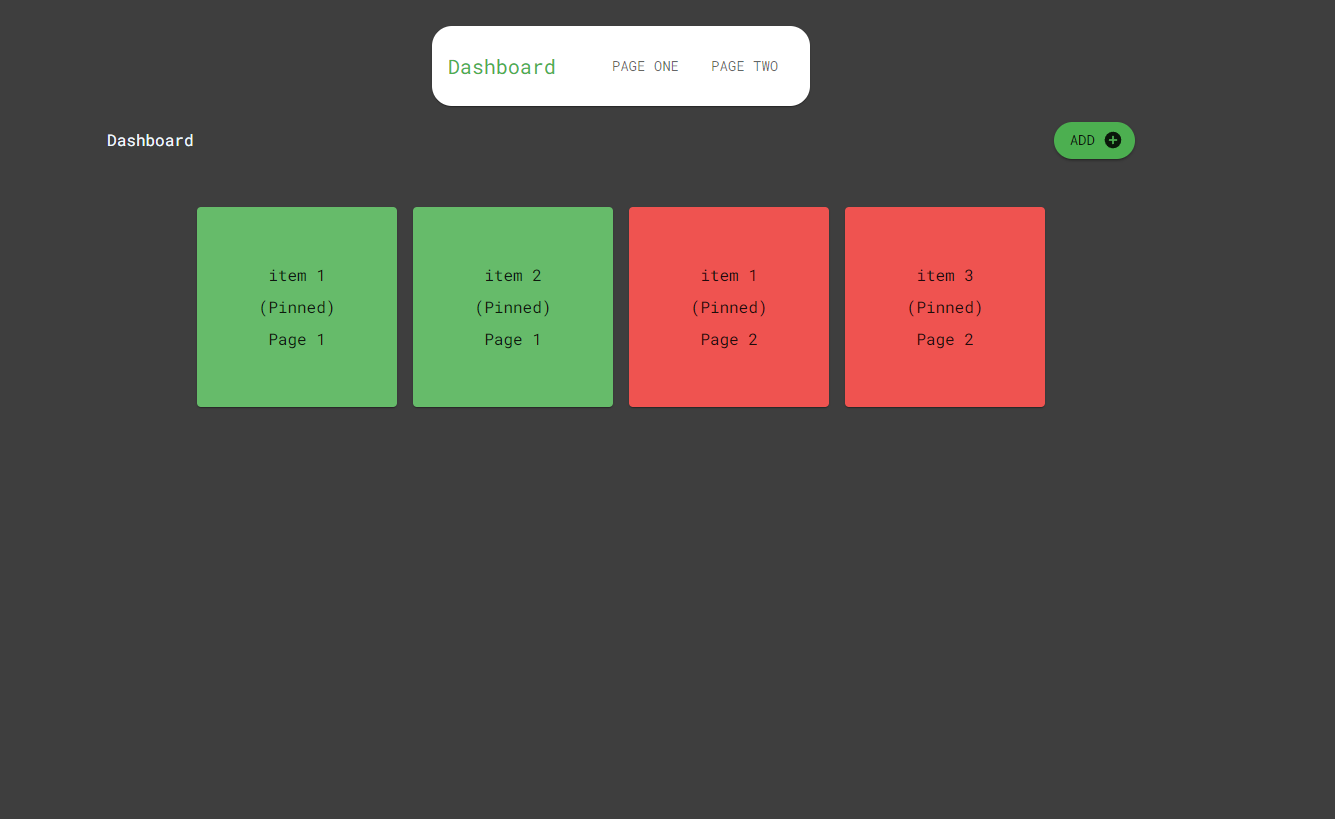
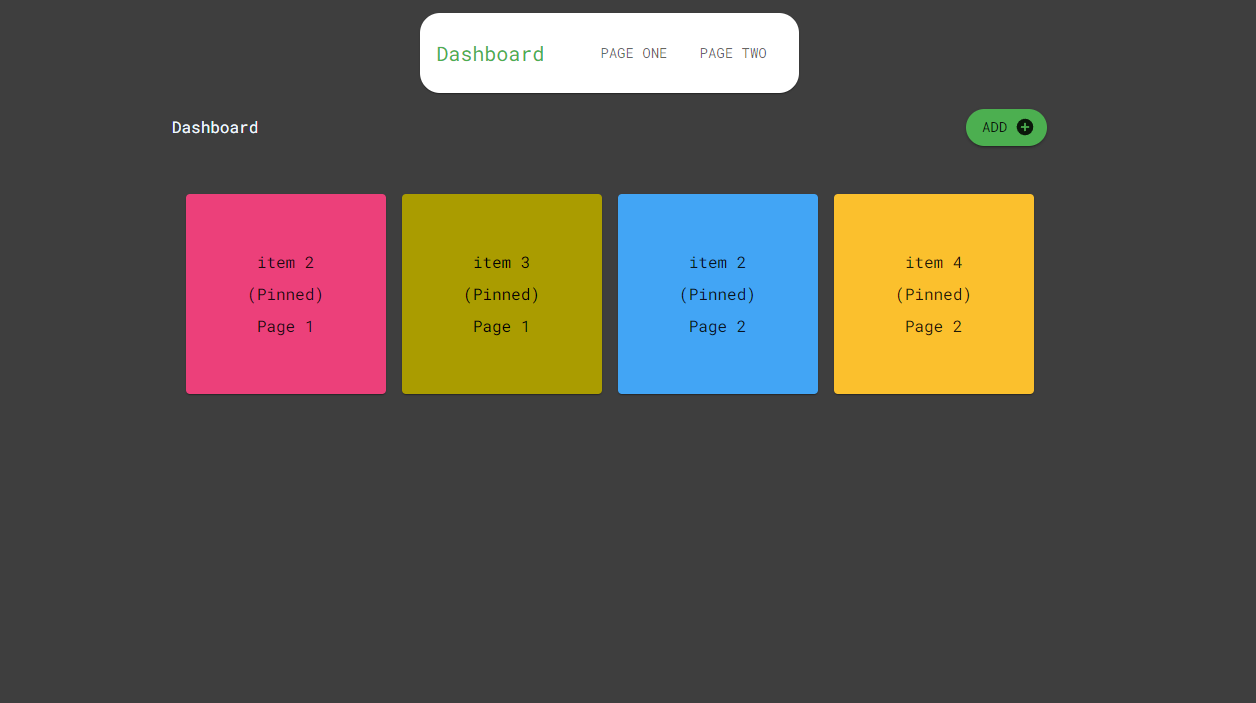
added many colors to cards

diff --git a/src/redux/slices/itemsSlice.tsx b/src/redux/slices/itemsSlice.tsx
@@ -1,7 +1,7 @@
 import {Item} from "../../types/types";
 import {createSlice, PayloadAction} from "@reduxjs/toolkit";
 import {RootState} from "../store";
-import {green, red} from "@mui/material/colors";
+import {blue, brown, green, pink, red, yellow} from "@mui/material/colors";
 
 const pageOneItems: Item[] = [
     {
@@ -18,7 +18,7 @@ const pageOneItems: Item[] = [
         page: 1,
         isDashboard: false,
         isPinned: false,
-        color: green[400]
+        color: pink[400]
     },
     {
         index: 3,
@@ -26,7 +26,7 @@ const pageOneItems: Item[] = [
         page: 1,
         isDashboard: false,
         isPinned: false,
-        color: green[400]
+        color: yellow[400]
     },
     {
         index: 4,
@@ -34,7 +34,7 @@ const pageOneItems: Item[] = [
         page: 1,
         isDashboard: false,
         isPinned: false,
-        color: green[400]
+        color: brown[400]
     }
 ]
 
@@ -54,7 +54,7 @@ const pageTwoItems: Item[] = [
         page: 2,
         isDashboard: false,
         isPinned: false,
-        color: red[400]
+        color: blue[400]
     },
     {
         index: 7,
@@ -62,7 +62,7 @@ const pageTwoItems: Item[] = [
         page: 2,
         isDashboard: false,
         isPinned: false,
-        color: red[400]
+        color: green[300]
     },
     {
         index: 8,
@@ -70,7 +70,7 @@ const pageTwoItems: Item[] = [
         page: 2,
         isDashboard: false,
         isPinned: false,
-        color: red[400]
+        color: yellow[700]
     }
 ]
 
